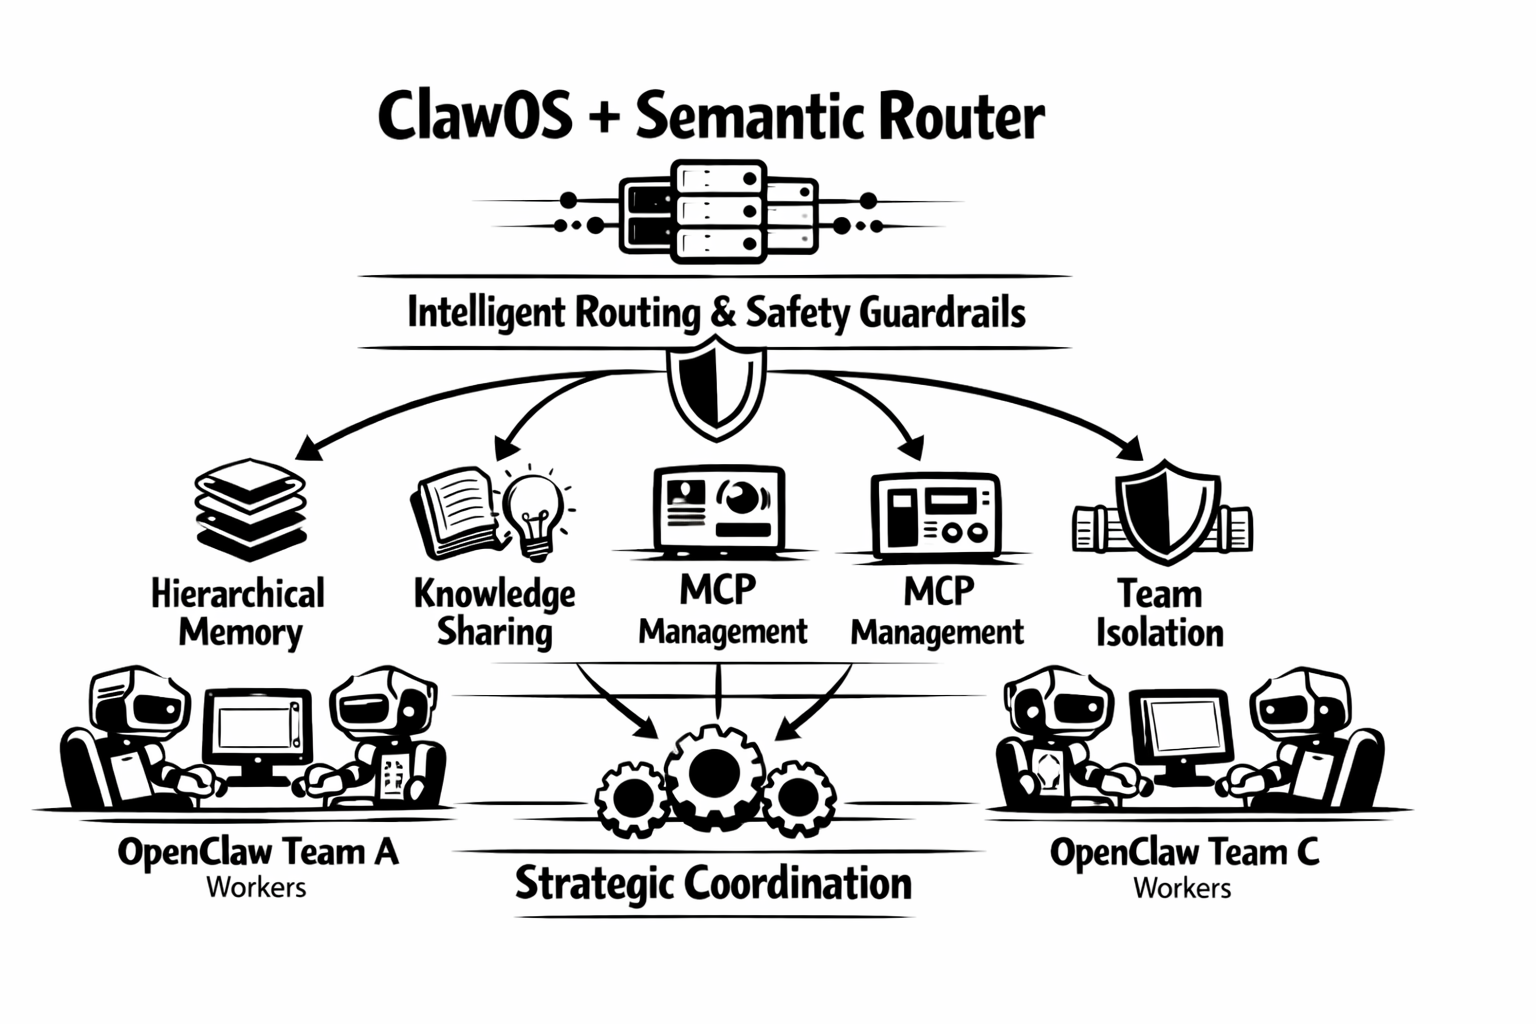
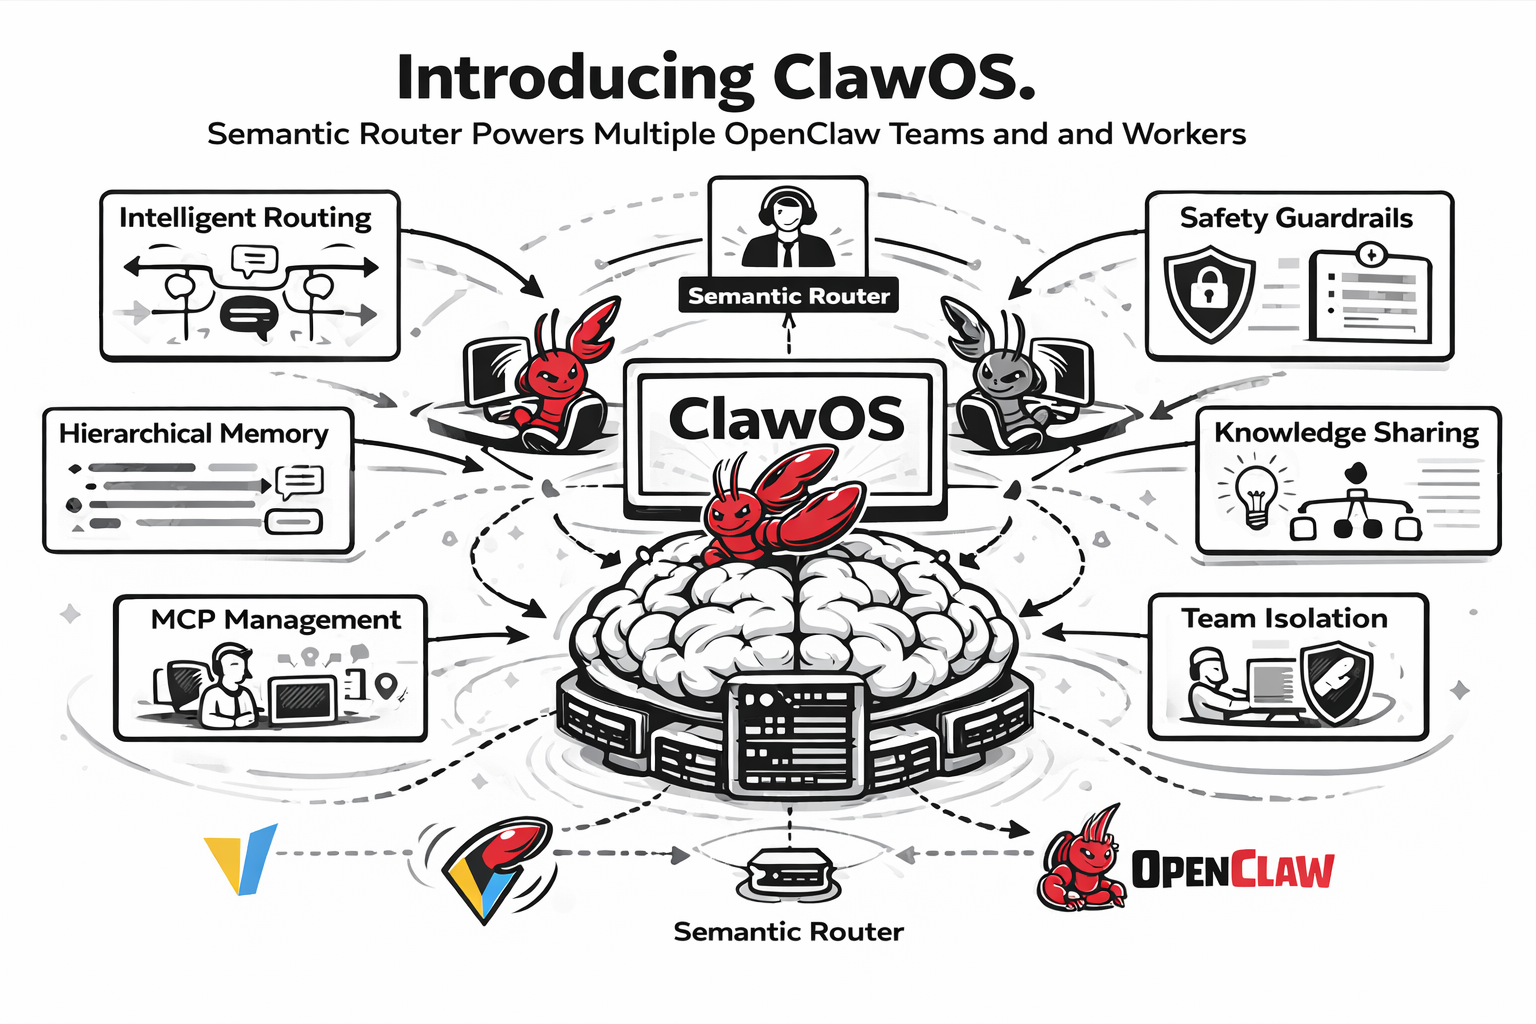
Blog: Add vLLM-SR v0.2 Release

Changed region(s): [[0.0, 0.0312, 1.0, 0.9375]]

diff --git a/_posts/2026-03-10-v0.2-vllm-sr-athena-release.md b/_posts/2026-03-10-v0.2-vllm-sr-athena-release.md
@@ -9,7 +9,7 @@ tags:
 
 Since v0.1 Iris, vLLM Semantic Router has been evolving from a routing layer into a broader system brain for mixture-of-modality deployments. What began as signal-driven model selection now extends across safety, semantic caching, memory, retrieval, and tool-aware workflows, turning routing into a programmable control layer between users and models.
 
-Athena makes that shift concrete. Built on a refreshed model foundation, v0.2 expands the system across model selection, stateful memory, hybrid retrieval, programmable DSL language, ClawOS orchestration, zero-config onboarding, AMD-ready deployment, and a much stronger dashboard. If Iris established the bridge between users and models, Athena turns that bridge into a strategic operating surface.
+Athena makes that shift concrete. Built on a refreshed model foundation, v0.2 expands the system across model selection, **ClawOS** orchestration for OpenClaw, stateful memory, hybrid retrieval, richer signals, a programmable DSL language, zero-config onboarding, AMD-ready deployment, and a much stronger dashboard. If Iris established the bridge between users and models, Athena turns that bridge into a strategic operating surface.
 
 ![](/assets/figures/semantic-router/athena-0.png)
 
@@ -112,7 +112,40 @@ This matters because modern LLM systems do not just need to decide **whether** a
 
 Athena also adds the operational layer around these algorithms: setup wizard support for ML training and config generation, CLI and runtime integration, metrics, E2E coverage, and Elo feedback surfaces in the dashboard for human-in-the-loop refinement.
 
-### 3. Memory, RAG, and Response State Move Into the Core Runtime
+### 3. ClawOS Explores How Semantic Router Can Power Multiple OpenClaw Systems
+
+One of the biggest new bets in Athena is an **experimental capability** that expands the project in a new direction: **ClawOS**.
+
+Inside the repo, the distinction is clear:
+
+- **OpenClaw** is the underlying agent platform
+- **ClawOS** is the orchestration and control experience built into Semantic Router
+
+The point of this feature is not just to add another dashboard page. It is to explore how **Semantic Router can power multiple OpenClaw systems** with routing intelligence, memory, safety, and team control all connected in one surface.
+
+The dashboard highlights the capabilities we want to bring into that setup:
+
+- **Intelligent Routing** for cost-quality model selection
+- **Safety Guardrails** against jailbreaks, PII leakage, and hallucination risk
+- **Hierarchical Memory Storage** for long-horizon, multi-step execution
+- **Knowledge Sharing** across agents
+- **Isolation & Team Management** for multi-agent operations in one shared orchestration layer
+
+![](/assets/figures/semantic-router/athena-7.png)
+
+Athena adds the first set of product surfaces that make this experiment tangible:
+
+- **team support** with leader-and-worker composition
+- **worker provisioning** directly from the dashboard
+- **built-in MCP integration** so users can create and manage large numbers of teams and workers (claws) directly through chat
+- **room chat and realtime orchestration workflows**
+- **runtime health, team composition, and status views**
+- **readonly room chat** for safer demos and public-beta style deployments
+- shared runtime support so Claw workers can live alongside the router in the same operational environment
+
+ClawOS is important not because it is a finished platform, but because it is an early, experimental answer to a bigger question: what happens when semantic routing does not just choose a model, but **powers a whole multi-agent operating layer** built on OpenClaw?
+
+### 4. Memory, RAG, and Response State Move Into the Core Runtime
 
 Athena also makes **state** a core concern instead of a side feature.
 
@@ -133,7 +166,7 @@ Just as important, the memory layer became more trustworthy:
 
 Athena turns routing from a stateless decision point into a system that can remember, retrieve, verify, and replay.
 
-### 4. Signals Get Richer, Faster, and Safer
+### 5. Signals Get Richer, Faster, and Safer
 
 Iris introduced the Signal-Decision architecture. Athena significantly expands it.
 
@@ -169,7 +202,7 @@ That matters because it upgrades one of the router's most interpretable primitiv
 
 Athena is not just broader. It is also faster. Signal parallelism, faster extraction paths, better embedding lookup behavior, and stronger keyword and safety paths all help the runtime scale without losing explainability.
 
-### 5. NLP-Based Prompt Compression Becomes a First-Class Long-Context Primitive
+### 6. NLP-Based Prompt Compression Becomes a First-Class Long-Context Primitive
 
 Athena also introduces a new long-context runtime primitive: **NLP-based prompt compression before signal extraction**.
 
@@ -188,7 +221,7 @@ This also ties into the runtime work around **Envoy STREAMED body mode**. In the
 
 The important point is that this is not an LLM summarizer bolted onto the side. It is a deterministic NLP pipeline inserted directly into the signal path, making long-context classification materially cheaper without obscuring how the router reached its decision.
 
-### 6. Programmable Neural-Symbolic Configuration Language
+### 7. Programmable Neural-Symbolic Configuration Language
 
 Another defining theme of Athena is that routing policy becomes a real **language**, not just a pile of YAML fragments. In the project white paper, we describe this as a **Programmable Neural-Symbolic Configuration Language**: a typed configuration language that acts as the instruction set for the routing inference engine, combining neural signal extraction with symbolic decision evaluation.
 
@@ -214,39 +247,6 @@ This closes a long-standing gap between:
 Athena also includes fixes that make this language-driven authoring loop more reliable in practice, including improved config reload behavior and apiserver classification service refresh after deploy reload.
 
 In short, Athena makes semantic routing easier to **program**, **inspect**, and **evolve**, not just execute. More importantly, it makes routing authoring legible to both humans and coding agents: the router becomes something you can compile, validate, round-trip, and increasingly ask an agent to write.
-
-### 7. ClawOS Explores How Semantic Router Can Power Multiple OpenClaw Systems
-
-Athena also introduces an **experimental capability** that expands the project in a new direction: **ClawOS**.
-
-Inside the repo, the distinction is clear:
-
-- **OpenClaw** is the underlying agent platform
-- **ClawOS** is the orchestration and control experience built into Semantic Router
-
-The point of this feature is not just to add another dashboard page. It is to explore how **Semantic Router can power multiple OpenClaw systems** with routing intelligence, memory, safety, and team control all connected in one surface.
-
-The dashboard highlights the capabilities we want to bring into that setup:
-
-- **Intelligent Routing** for cost-quality model selection
-- **Safety Guardrails** against jailbreaks, PII leakage, and hallucination risk
-- **Hierarchical Memory Storage** for long-horizon, multi-step execution
-- **Knowledge Sharing** across agents
-- **Isolation & Team Management** for multi-agent operations in one shared orchestration layer
-
-![](/assets/figures/semantic-router/athena-7.png)
-
-Athena adds the first set of product surfaces that make this experiment tangible:
-
-- **team support** with leader-and-worker composition
-- **worker provisioning** directly from the dashboard
-- **built-in MCP integration** for team and worker management
-- **room chat and realtime orchestration workflows**
-- **runtime health, team composition, and status views**
-- **readonly room chat** for safer demos and public-beta style deployments
-- shared runtime support so Claw workers can live alongside the router in the same operational environment
-
-ClawOS is important not because it is a finished platform, but because it is an early, experimental answer to a bigger question: what happens when semantic routing does not just choose a model, but **powers a whole multi-agent operating layer** built on OpenClaw?
 
 ### 8. Zero-Config Onboarding Changes the First-Run Experience
 
@@ -349,15 +349,17 @@ Athena operationalizes strategic routing. The next phase is about **closing the 
 
 From `v0.1.0` on **January 5, 2026** to `main` on **March 9, 2026**, the Athena cycle brought **304 commits** from **43 contributors**. Thank you to everyone who pushed code, reviewed PRs, improved docs, expanded tests, trained models, and helped turn semantic routing into a more complete system.
 
-We are especially grateful to the maintainers and contributors driving the project across runtime, dashboard, infrastructure, evaluation, and research directions. 
+We are especially grateful to the maintainers and contributors driving the project across runtime, dashboard, infrastructure, evaluation, and research directions.
 
-We also want to thank Red Hat, IBM, AMD, NVIDIA, DaoCloud, and the broader open-source community for their collaboration, engineering support, feedback, and continued investment in open model systems. Athena is the result of a community that is moving fast without losing sight of architecture.
+We also want to thank **Red Hat**, **IBM**, **AMD**, **NVIDIA**, **DaoCloud**, and the broader open-source community for their collaboration, engineering support, feedback, and continued investment in open model systems. Athena is the result of a community that is moving fast without losing sight of architecture.
 
 ---
 
 ## Get Started
 
 Ready to try vLLM Semantic Router v0.2 Athena?
+
+If you want to try the hosted experience before installing locally, visit [play.vllm-semantic-router.com](http://play.vllm-semantic-router.com).
 
 ![](/assets/figures/semantic-router/athena-12.png)
 
